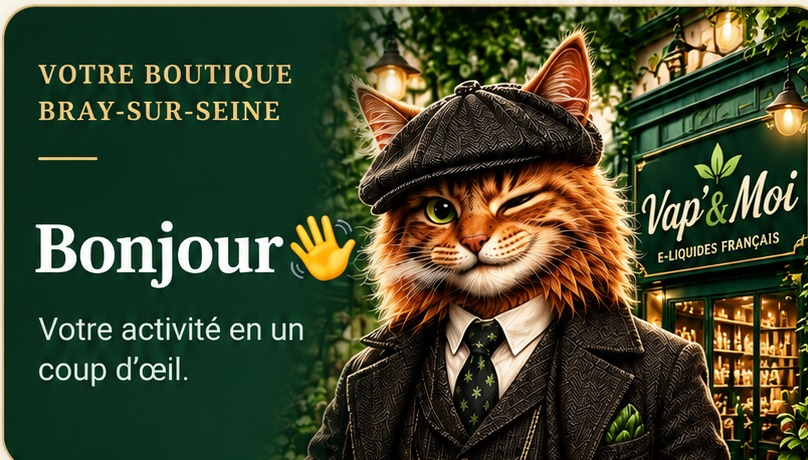
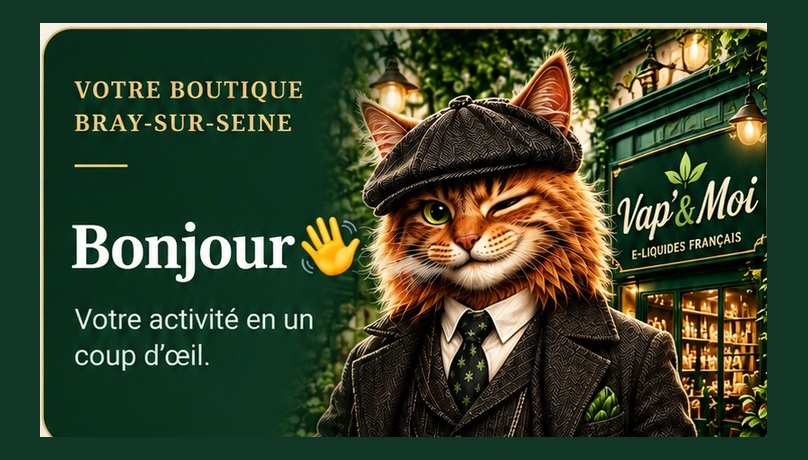
Add files via upload

diff --git a/sw.js b/sw.js
@@ -1,20 +1,18 @@
-const CACHE='vap-et-moi-ultima-cache-v59-2';
-const APP_FILES=['./','./index.html','./manifest.webmanifest','./icon-192.png','./icon-512.png','./mascotte-vap-moi.jpg','./accueil-banniere.jpg'];
-self.addEventListener('install',event=>{event.waitUntil(caches.open(CACHE).then(cache=>cache.addAll(APP_FILES)));self.skipWaiting();});
-self.addEventListener('activate',event=>{event.waitUntil(caches.keys().then(keys=>Promise.all(keys.filter(key=>key!==CACHE).map(key=>caches.delete(key)))).then(()=>self.clients.claim()));});
+const CACHE='vap-et-moi-ultima-cache-v59-3';
+const CORE=['./','./index.html','./manifest.webmanifest','./icon-192.png','./icon-512.png','./mascotte-vap-moi.jpg','./accueil-banniere.jpg'];
+self.addEventListener('install',event=>event.waitUntil((async()=>{const cache=await caches.open(CACHE);await cache.addAll(CORE);await self.skipWaiting();})()));
+self.addEventListener('activate',event=>event.waitUntil((async()=>{const keys=await caches.keys();await Promise.all(keys.filter(key=>key.startsWith('vap-et-moi-ultima-cache-')&&key!==CACHE).map(key=>caches.delete(key)));await self.clients.claim();})()));
 self.addEventListener('fetch',event=>{
   if(event.request.method!=='GET') return;
   const url=new URL(event.request.url);
-  const isPage=event.request.mode==='navigate'||url.pathname.endsWith('/index.html')||url.pathname.endsWith('/');
-  if(isPage){
-    event.respondWith(fetch(event.request,{cache:'no-store'}).then(response=>{
-      if(response&&response.ok){const copy=response.clone();caches.open(CACHE).then(cache=>cache.put('./index.html',copy));}
-      return response;
-    }).catch(()=>caches.match('./index.html').then(cached=>cached||caches.match('./'))));
+  const isAppPage=event.request.mode==='navigate'||url.pathname.endsWith('/index.html')||url.pathname==='/vap-et-moi-fidelite/';
+  if(isAppPage){
+    event.respondWith((async()=>{
+      const cache=await caches.open(CACHE);
+      try{const response=await fetch(event.request,{cache:'no-store'});if(response&&response.ok)await cache.put(event.request,response.clone());return response;}
+      catch(error){return (await cache.match(event.request))||(await cache.match('./index.html'))||Response.error();}
+    })());
     return;
   }
-  event.respondWith(caches.match(event.request).then(cached=>cached||fetch(event.request).then(response=>{
-    if(response&&response.ok){const copy=response.clone();caches.open(CACHE).then(cache=>cache.put(event.request,copy));}
-    return response;
-  })));
+  event.respondWith((async()=>{const cached=await caches.match(event.request);if(cached)return cached;try{const response=await fetch(event.request);if(response&&response.ok){const cache=await caches.open(CACHE);cache.put(event.request,response.clone());}return response;}catch(error){return cached||Response.error();}})());
 });

diff --git a/index.html b/index.html
@@ -1368,6 +1368,34 @@ header{padding:12px 16px!important;border-radius:0 0 18px 18px!important;border-
 @media(max-width:370px){.brandLockup h1{font-size:22px!important}.appGreetingBanner{aspect-ratio:1.55/1}}
 @media(prefers-reduced-motion:reduce){.appGreetingBanner *{animation:none!important;transition:none!important}}
 
+
+/* V59 final correction: clean header mark and show the full welcome banner on mobile */
+.brandMark{
+  border:0!important;
+  outline:0!important;
+  box-shadow:none!important;
+  background:transparent!important;
+  border-radius:0!important;
+  color:#e8d4a4!important;
+}
+.brandMark span{color:#e8d4a4!important}
+@media(max-width:650px){
+  .appGreetingBanner{aspect-ratio:808/460!important;height:auto!important;max-height:none!important;overflow:hidden}
+  .appGreetingBanner .homeBannerImage{width:100%!important;height:100%!important;object-fit:contain!important;object-position:center center!important}
+}
+
+
+/* V59.1 — corrections fermes du bandeau supérieur et de la bannière */
+header::before, header::after{content:none!important;display:none!important;background:none!important;box-shadow:none!important;border:0!important}
+header{background:linear-gradient(118deg,#102D23 0%,#173D30 58%,#28533D 100%)!important;}
+.brandMark{width:auto!important;height:auto!important;min-width:0!important;flex:0 0 auto!important;padding:0!important;margin:0!important;border:0!important;outline:0!important;border-radius:0!important;background:transparent!important;box-shadow:none!important;color:#e8d4a4!important;font-size:19px!important;line-height:1!important}
+.brandMark span{color:#e8d4a4!important}
+@media(max-width:650px){
+ .brandLockup{gap:12px!important}
+ .appGreetingBanner{aspect-ratio:808/460!important;height:auto!important;max-height:none!important;overflow:hidden!important}
+ .appGreetingBanner .homeBannerImage{display:block!important;width:100%!important;height:100%!important;object-fit:contain!important;object-position:center!important}
+}
+
 </style>
 </head>
 <body>
